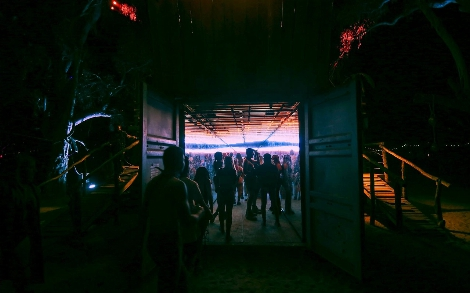
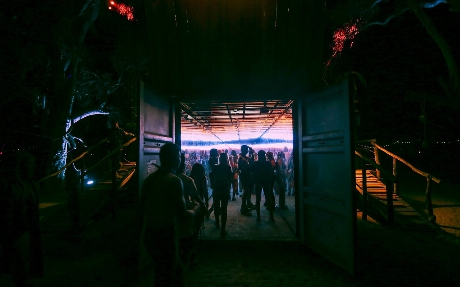
small adjustments

diff --git a/css/user_gallery.css b/css/user_gallery.css
@@ -1,0 +1,43 @@
+body {
+	background: white;
+}
+.image {
+	display: block;
+	margin-left: 700px;
+	margin-top: 200px;
+}
+@media screen and (min-width: 1800px) and (max-width: 2100px) {
+
+	.image {
+		display: block;
+		margin-left: 550px;
+		margin-top: 200px;
+	}
+}
+@media screen and (min-width: 1300px) and (max-width: 1800px) {
+
+	.image {
+		display: block;
+		margin-left: 400px;
+		margin-top: 200px;
+	}
+}
+@media screen and (min-width: 350px) and (max-width: 1300px) {
+
+	.image {
+		display: block;
+		margin-left: auto;
+		  margin-right: auto;
+		margin-top: 200px;
+	}
+}
+@media screen and (min-width: 350px) and (max-width: 450px) {
+
+	.image {
+		display: block;
+		margin-left: auto;
+		margin-right: auto;
+		margin-top: 200px;
+		width: 99%;
+	}
+}

diff --git a/php/user_gallery.php b/php/user_gallery.php
@@ -75,34 +75,9 @@
 		<link rel="preconnect" href="https://fonts.googleapis.com">
 		<link rel="preconnect" href="https://fonts.gstatic.com" crossorigin>
 		<link href="https://fonts.googleapis.com/css2?family=Work+Sans:wght@800&display=swap" rel="stylesheet">
+		<link href="../css/user_gallery.css" rel="stylesheet">
 		<style>
-			body {
-				background: white;
-			}
-			.image {
-				display: block;
-				margin-left: 400px;
-				margin-top: 200px;
-			}
-			@media screen and (min-width: 350px) and (max-width: 1300px) {
-
-				.image {
-					display: block;
-					margin-left: auto;
-  					margin-right: auto;
-					margin-top: 200px;
-				}
-			}
-			@media screen and (min-width: 350px) and (max-width: 450px) {
-
-				.image {
-					display: block;
-					margin-left: auto;
-					margin-right: auto;
-					margin-top: 200px;
-					width: 99%;
-				}
-			}
+			
 		</style>
 	</head>
 	<body>

diff --git a/php/add_foto.php b/php/add_foto.php
@@ -66,7 +66,7 @@
 				$img = imagecreatefromjpeg($photo_file);
 			if ($file_type == "png")
 				$img = imagecreatefrompng($photo_file);
-			$scaled_img = imagescale($img, 470, -1, IMG_BILINEAR_FIXED);
+			$scaled_img = imagescale($img, 460, -1, IMG_BILINEAR_FIXED);
 			imagejpeg($scaled_img, $photo_file, 100);
 			imagedestroy($img);
 			imagedestroy($scaled_img);
@@ -93,7 +93,7 @@
 		$sy = imagesy($stamp);
 
 		imagecopy($img, $stamp, imagesx($img) - $sx - $margin_r, imagesy($img) - $sy - $margin_b, 0, 0, imagesx($stamp), imagesy($stamp));
-		$scaled_img = imagescale($img, 470, -1, IMG_BILINEAR_FIXED);
+		$scaled_img = imagescale($img, 460, -1, IMG_BILINEAR_FIXED);
 		imagejpeg($scaled_img, $photo_file, 100);
 		imagedestroy($img);
 		imagedestroy($scaled_img);
